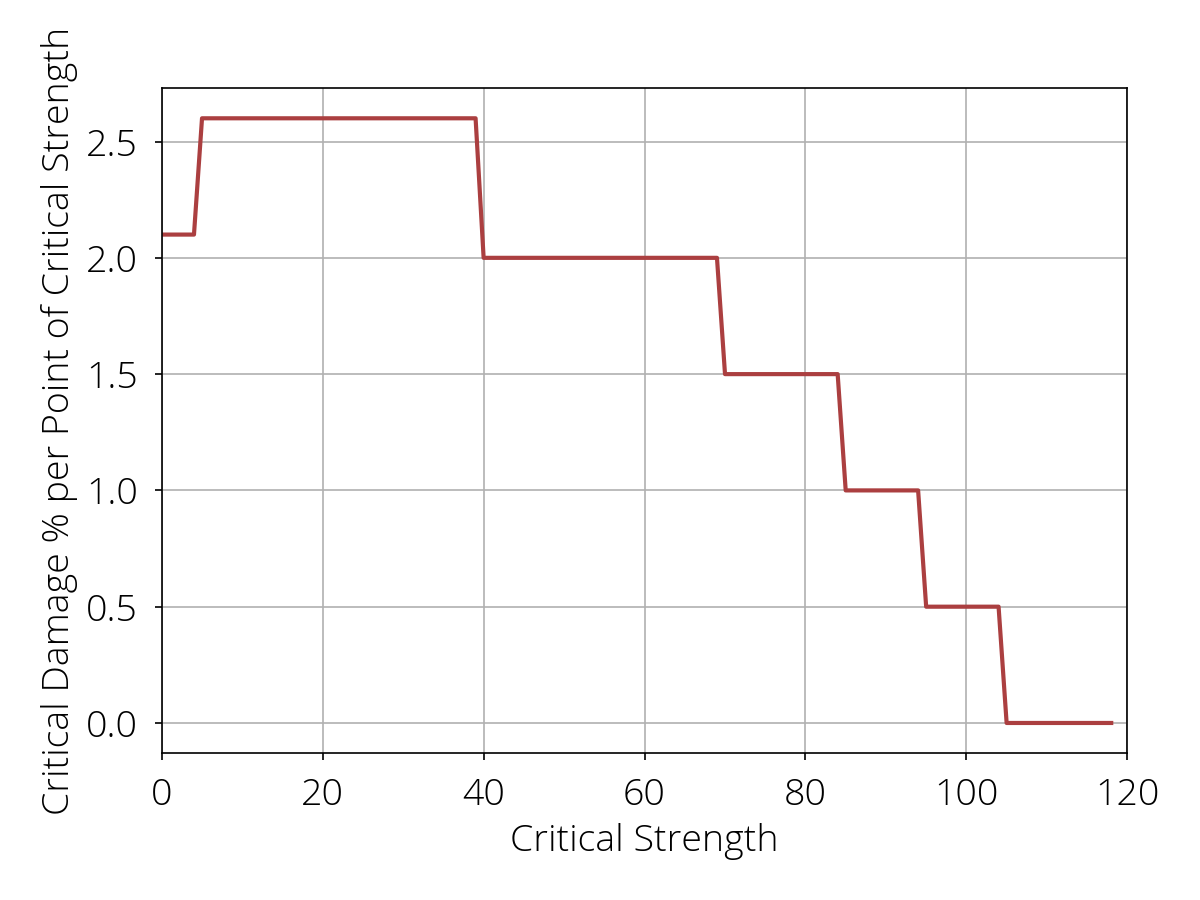
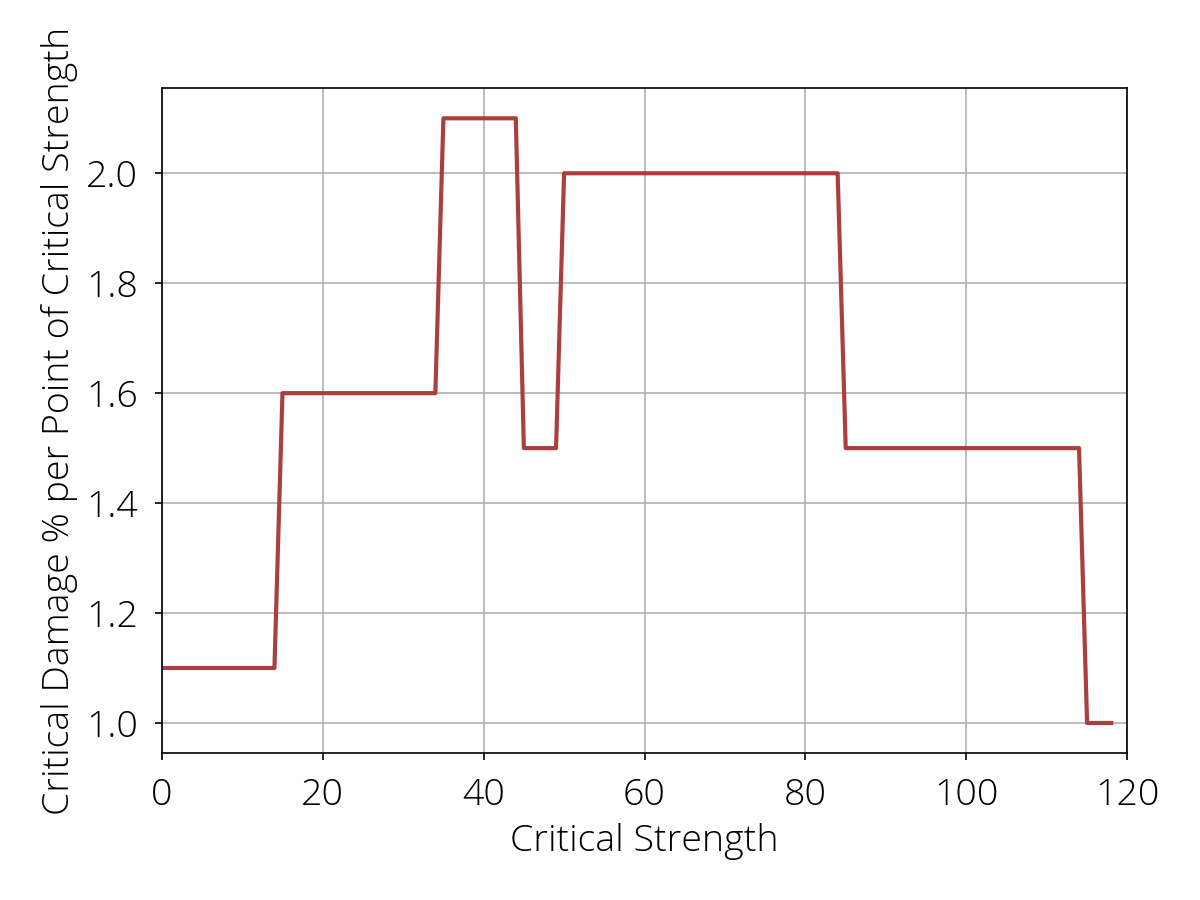
Updated for v2.3.0

diff --git a/crit-viz.py b/crit-viz.py
@@ -4,8 +4,8 @@ import numpy as np
 from mpl_plot import *
 
 
-breakpoints  = np.array([  1, 41,  71, 86,  96, 106])
-coefficients = np.array([1.4, 2., 2.5, 3., 3.5,  4.])
+breakpoints  = np.array([  1, 46,  86, 116, 136, 151])
+coefficients = np.array([1.4, 2., 2.5,  3., 3.5,  4.])
 
 
 def equivalent_crit_damage(strength_raw):

diff --git a/README.md b/README.md
@@ -9,6 +9,8 @@ This simple script visualizes what "critical strength" means in terms of critica
 The first plot the average critical damage you can expect with a given amount of critical strength on your gear.
 The second plot shows how much a single additional point of critical strength is assuming you already have a given amount.
 
+Note: As of v2.3.0, the critical damage per point of critical strength plot is a bit wonky. This isn't a bug, it's a result of inconsistently-sized intervals in the critical strength table. The good news is that you can basically ignore the hiccup in the middle: there's essentially no scenario in which it makes sense to change your gear for that little window.
+
 ![Equivalent critical damage](Equivalent_crit_damage.png)
 
 ![Critical damage per strength point](Critical_damage_per_strength.png)
